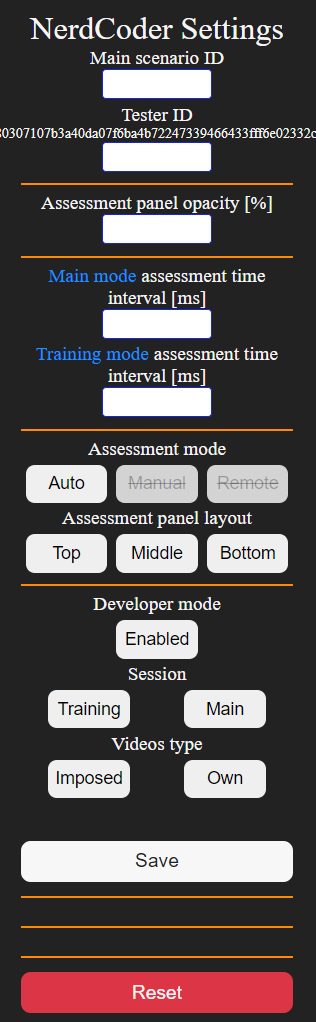
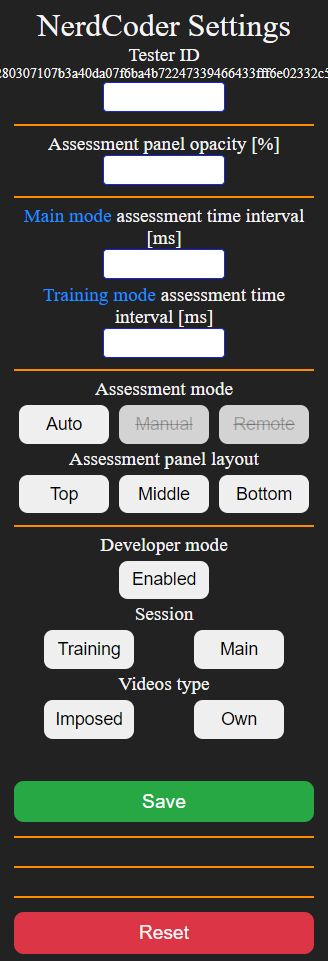
readme update

diff --git a/popup_preview/popup.html b/popup_preview/popup.html
@@ -6,12 +6,14 @@
 <body>
 
 <h1>NerdCoder Settings</h1>
-<div class="option-container">
-  <label> Main scenario ID </label>
-  <input
-          id="scenario-id"
-  />
-</div>
+  <!--
+  <div class="option-container">
+    <label> Main scenario ID </label>
+    <input
+            id="scenario-id"
+    />
+  </div>
+  -->
 <div class="option-container">
   <label>Tester ID</label>
   <div type="text"  id="hash">59ccf4c280307107b3a40da07f6ba4b72247339466433fff6e02332c524f1352</div>

diff --git a/README.md b/README.md
@@ -83,22 +83,18 @@ Tester ID
     - After redirect extension is ready to start new session
     - <h3 style="color: red; margin:0">IT DOES NOT RELOAD THE EXTENSION</h3>
       <h4 style="margin:0">All settings configured in the popup and saved are not
-               affected by this operation. To restore default settings (hardcoded in background script) one needs to reload the extension manually</h4>
+               affected by this oper ation. To restore default settings (hardcoded in background script) one needs to reload the extension manually</h4>
 
 
 
 # <a name="throttling_scheduling"> Throttling scheduling </a>
 In the dist directory there is file named scenario_training.json that will be used to schedule throttling if 
-extension is running in training session mode.
-<br>
-In the dist/scenarios directory there are multiple configuration files generated by JS script. Those files will be used if 
-extension is running in main session mode.
-Which file will be used depends on the value provided by the experiment operator in the extension's popup.<br>
-<span style="color: red; font-weight: bold;">[ N O T I C E] </span>To avoid problems many configuration files should be generated in advance so 
-the extension will not reference to file that does not exist.
-<br>
-<span style="color: red; font-weight: bold">[ N O T I C E] </span> Every configuration file have a field that is responsible for scheduling 
-end of session. Timeout for this event can be configured freely. By default it should be 5 minutes after last throttling scheduling. But this value can be larger to let tester submit last video assessment.
+extension is running in training session mode.<br>
+
+In case of main session the scheduling configuration is generated dynamically by a script. <br>
+No file is created and saved but information on the configuration is submitted to the database.<br>
+
+Main scenario configuration schema is the same as training but it has less items in schedule property.
 
 
 ### Exemplary scenario file content
